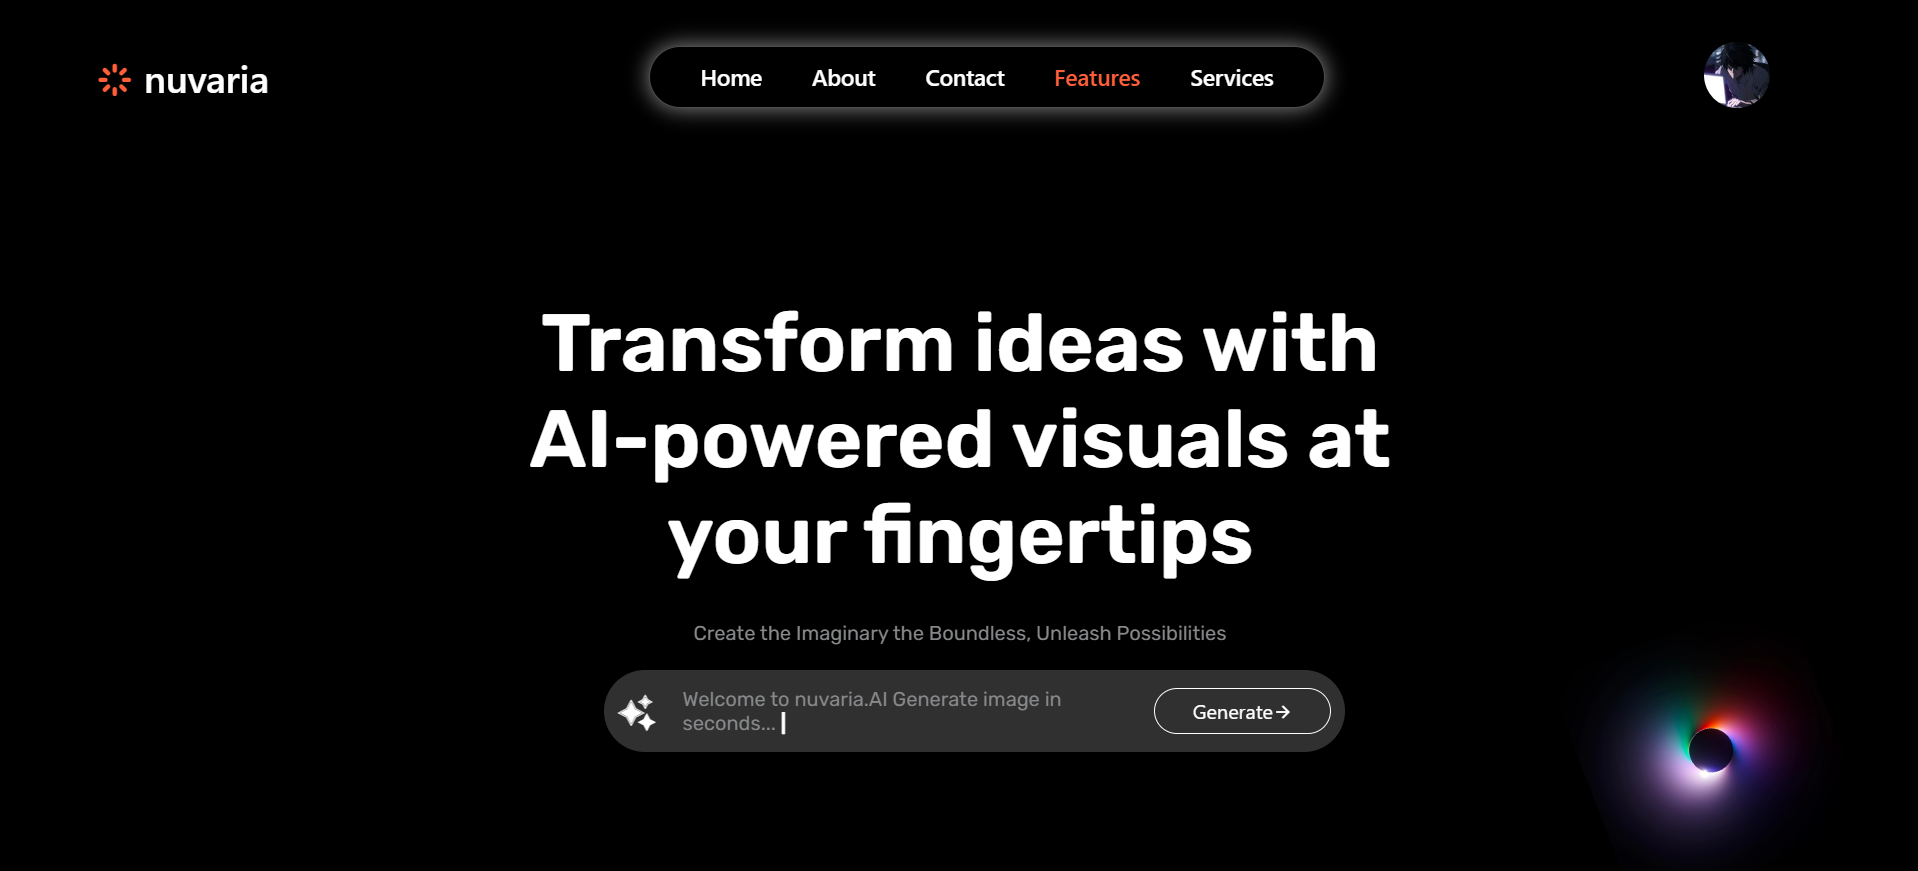
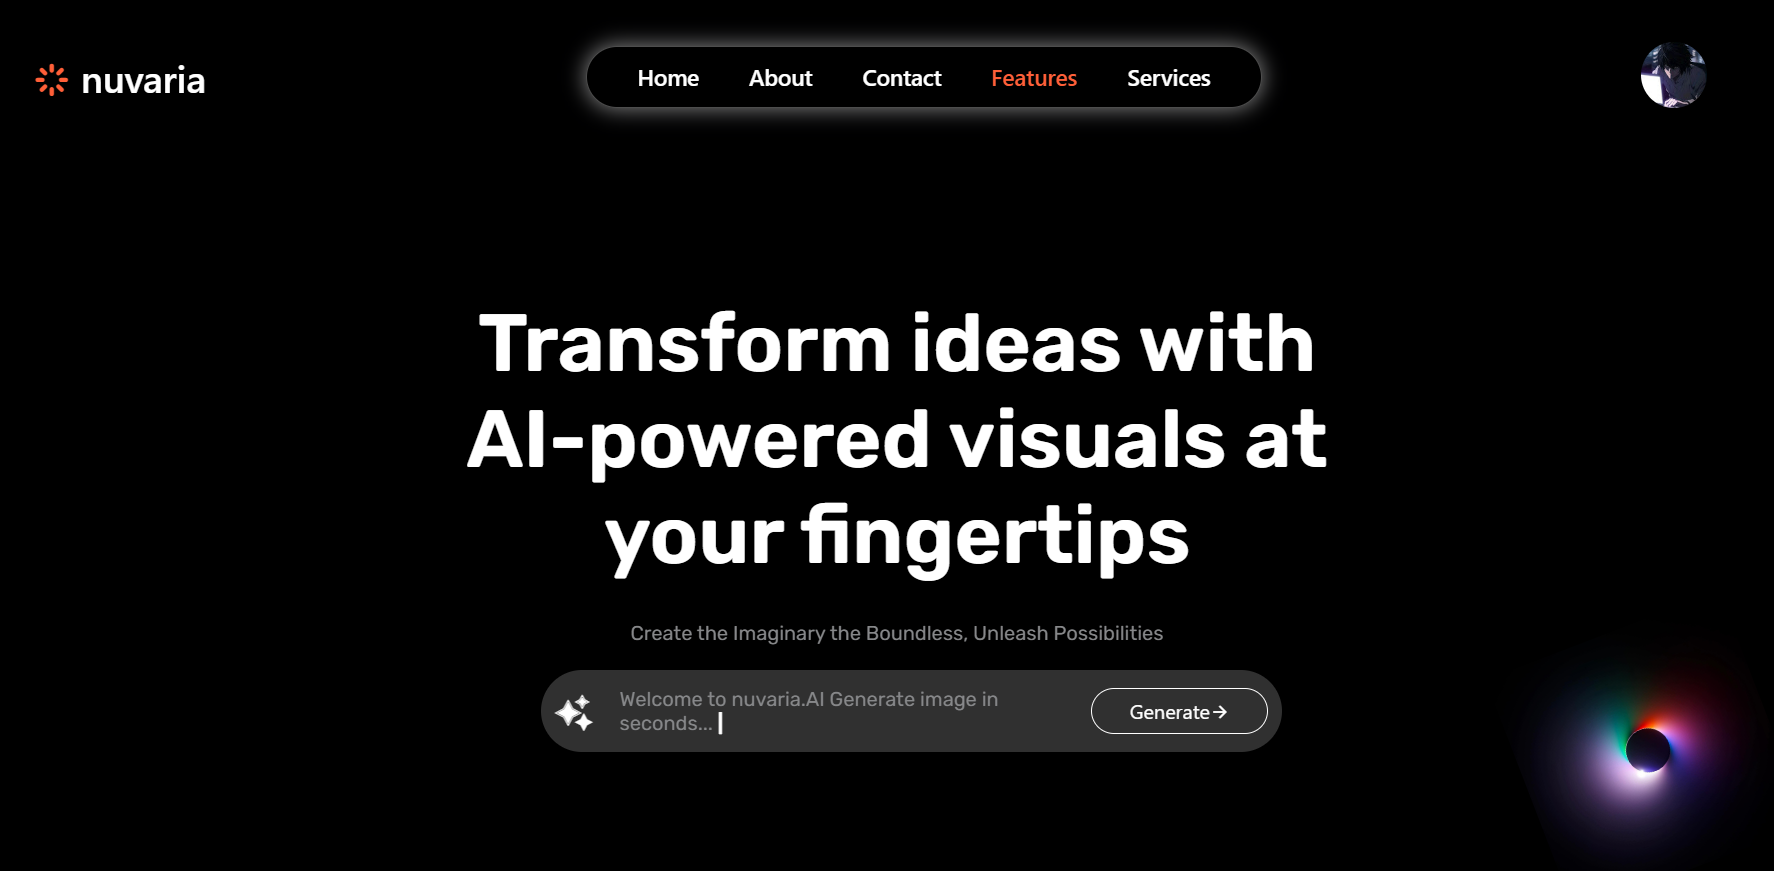
fix some problem

diff --git a/style.css b/style.css
@@ -66,6 +66,7 @@ nav ul li a:hover {
   align-items: center;
   justify-content: center;
   color: white;
+  padding: 0px 20px;
 }
 
 .page1 h3{
@@ -76,14 +77,14 @@ nav ul li a:hover {
 }
 
 .project-list1{
-  width: 80%;
+
   display: flex;
   justify-content: space-around;
   margin-top: 70px;
 
 }
 .project-list2{
-  width: 80%;
+
   display: flex;
   justify-content: space-around;
   margin-top: 70px;
@@ -95,8 +96,9 @@ nav ul li a:hover {
   margin-top: 40px;
   display: flex;
   flex-direction: column;
-  align-items: center;
-  justify-content: center;
+  /* align-items: center; */
+  /* justify-content: center; */
+  padding: 0px 30px;
 
 }
 
@@ -116,23 +118,23 @@ nav ul li a:hover {
 }
 
 .heading h1{
+  width: 100%;
+  text-align: center;
   color: white;
   font-size: 9rem;
   text-shadow: 
   0 0 1px rgb(255, 255, 255), 
   0 0 100px rgb(255, 255, 255),
   0 0 0px rgb(255, 255, 255);
-
 }
 
 .detail1{
-  width: 40%;
+
   text-align: start;
   color: white;
 }
 
 .detail2{
-  width: 40%;
   text-align: end;
   color: white;
 }
@@ -150,6 +152,7 @@ nav ul li a:hover {
  font-size: 4rem;
 }
 .detail2 p{
+  text-align: end;
  color: rgb(124, 122, 118);
 }
 
@@ -168,7 +171,6 @@ nav ul li a:hover {
 .about-content{
   width: 40%;
   text-align: start;
-  margin-left: 40px;
   color: rgb(255, 255, 255);
 }
 
@@ -224,7 +226,6 @@ footer {
   background-color: #f7f7f7;
   padding: 4px 10px;
   text-decoration: none;
-  margin-left: 10px;
   color: black;
   
 }
@@ -245,7 +246,7 @@ footer {
   }
 
   .heading h1 {
-    font-size: 21vw;
+    font-size: 20.3vw;
   }
 
 
@@ -267,14 +268,7 @@ footer {
     margin-top:2px;
     margin-bottom: 7px;
   }
-  .detail1 {
-    width: 100%;
-    margin-top: 20px;
-  }
-  .detail2 {
-    width: 100%;
-    margin-top: 20px;
-  }
+
   .detail1 p{
     font-size: 0.7rem;
   }
@@ -296,7 +290,6 @@ footer {
 
   .about-heading{
     width:100%;
-    padding: 0px 14px;
     font-size: 1.5rem;
     text-align: start;
   }
@@ -334,8 +327,11 @@ footer {
   .about-me{
     padding: 0px 20px;
     padding-bottom: 20px;
+    text-align: start;
+    
   }
   footer{
     font-size: 3vw;
+    text-align: center;
   }
 }

diff --git a/index.html b/index.html
@@ -9,7 +9,7 @@
 <link rel="preconnect" href="https://fonts.gstatic.com" crossorigin>
 <link href="https://fonts.googleapis.com/css2?family=Funnel+Display:wght@300..800&family=Rubik:ital,wght@0,300..900;1,300..900&display=swap" rel="stylesheet">
 <link href="https://cdn.jsdelivr.net/npm/remixicon@4.5.0/fonts/remixicon.css" rel="stylesheet"/>
-<link rel="shortcut icon" href="image/tent-line.png" type="image/x-icon">
+<link rel="shortcut icon" href="/image/favicon.png" type="image/x-icon">
 </head>
 <body>
     <!-- Navigation Bar -->
@@ -133,7 +133,7 @@
             </div>
             <div class="about-content">           
             <p>My passion for technology is a result of my intense curiosity about how things operate and want to develop solutions that can address challenges in the real world. In order to keep ahead of the curve in this ever evolving sector, I am always investigating new technologies and picking up new skills..</p>
-            <div class="account">
+            <!-- <div class="account">
               <a class="media" href="#"> <img src="/image/github.png" alt="">  Github</a>
               <a class="media" href="#"><img src="/image/instagram.png" alt="">Instagram</a>
               <a class="media" href="#"><img src="/image/message.png" alt="">Linkdine</a>
@@ -142,9 +142,11 @@
               <a class="media" href="#"> <img src="/image/communication.png" alt="">Facebook</a>
               <a class="media" href="#"> <img src="/image/twitter.png" alt="">  Twitter</a>
               <a class="media" href="#"><img src="/image/discord.png" alt="">Discord</a>
-            </div>
+            </div> -->
           </div>
         </div>
+
+      </div>
         <footer> Made by visdam❤ All rights © reserved</footer>
 </body>
 </html>
